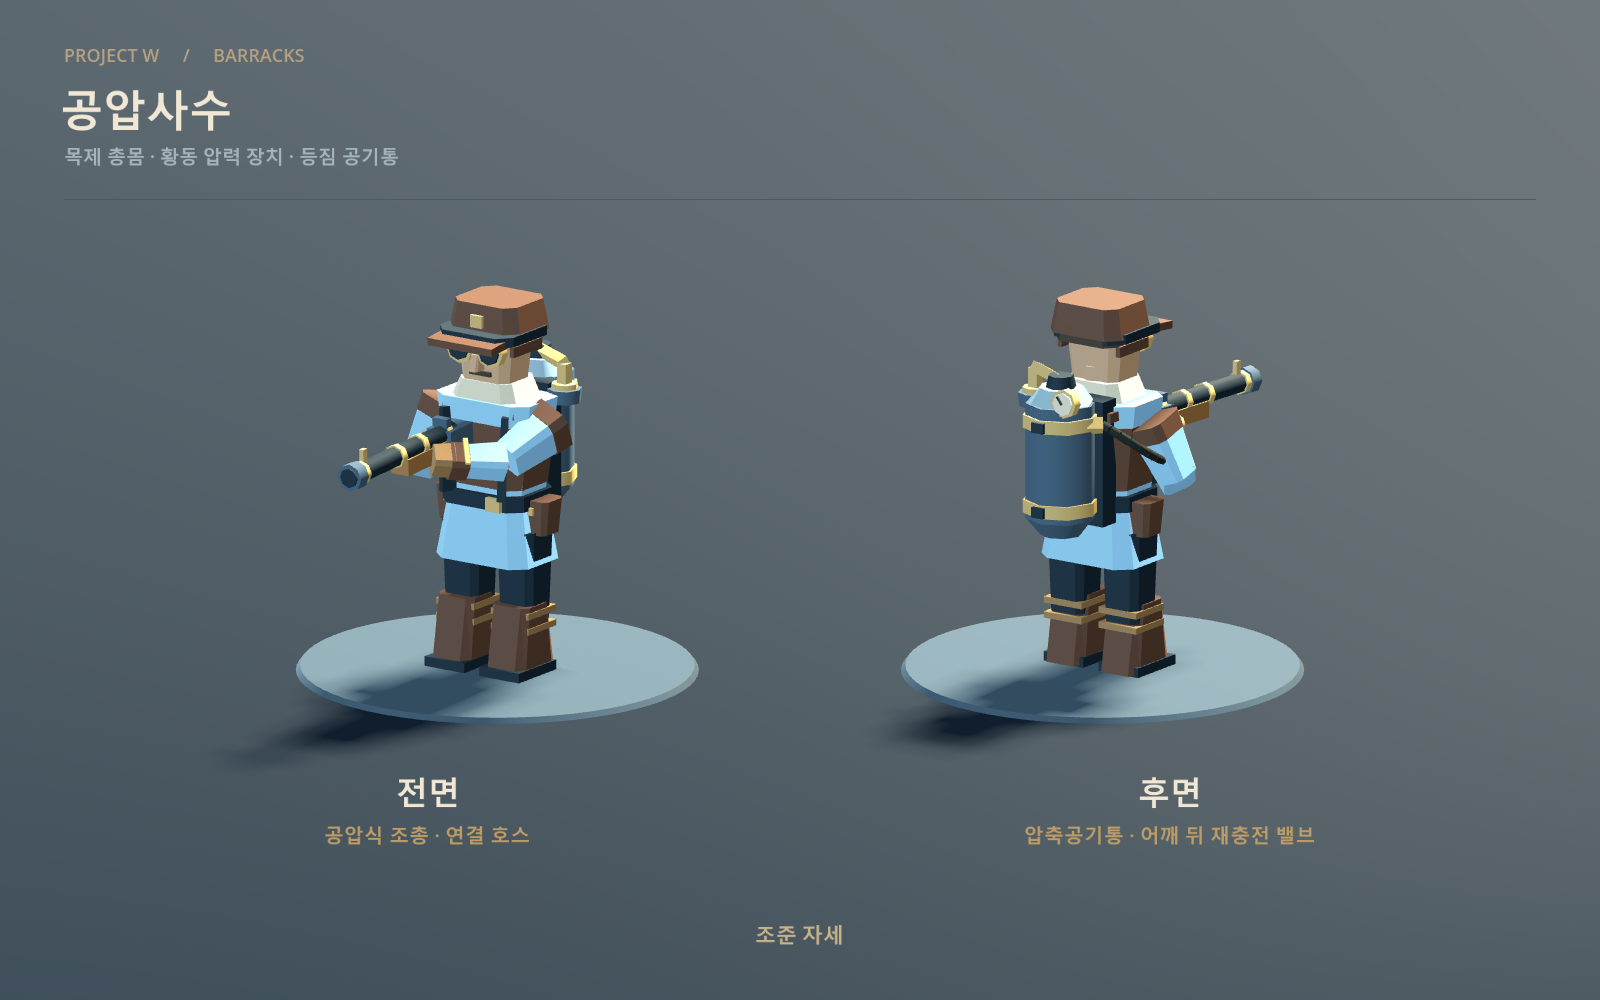
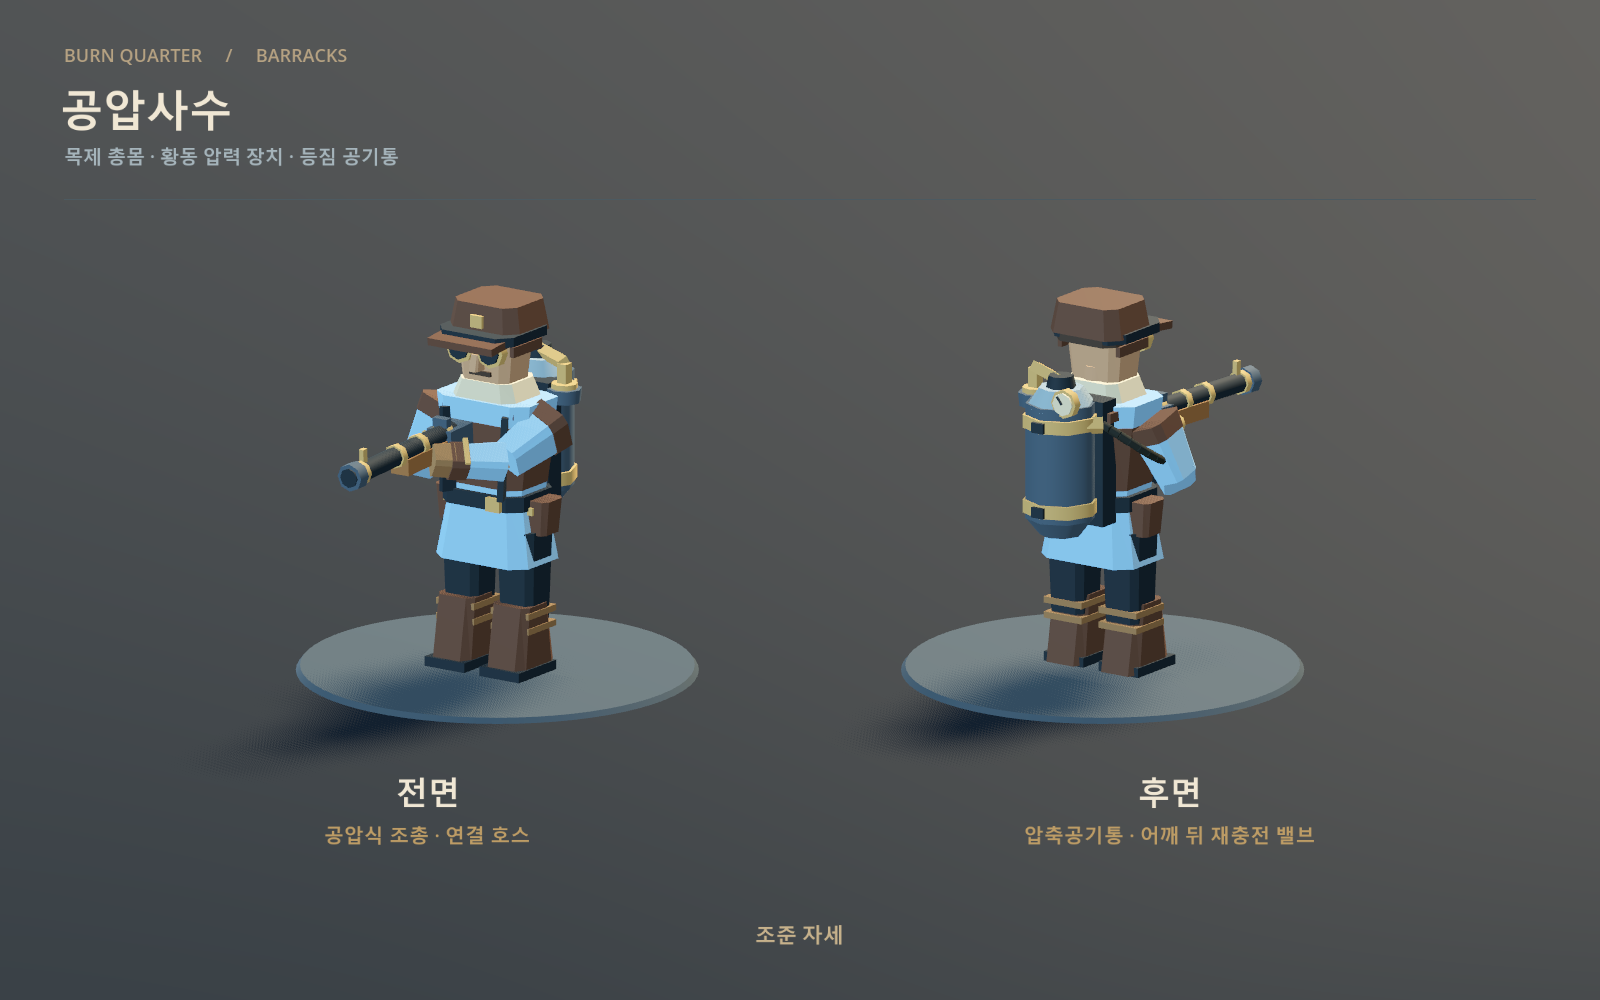
게임 이름을 Burn Quarter로 바꾸기
창 제목, 매칭 화면 로고, 미리보기 시트 제목을 바꾸고 해당 이미지를 다시 찍었다.
실행 파일·어셈블리·저장소 이름은 배포 스크립트 호환을 위해 그대로 둔다.

diff --git a/previews/WorkshopUnitsPreview.cs b/previews/WorkshopUnitsPreview.cs
@@ -97,7 +97,7 @@ public partial class WorkshopUnitsPreview : Node3D
     private void CreateLayout()
     {
         var canvas = new CanvasLayer(); AddChild(canvas); _layout = new Control { MouseFilter = Control.MouseFilterEnum.Ignore }; canvas.AddChild(_layout);
-        Text("PROJECT W     /     WORKSHOP", 64, 42, 1100, 18, "b6a282");
+        Text("BURN QUARTER     /     WORKSHOP", 64, 42, 1100, 18, "b6a282");
         Text(_flameOnly ? "화염기계" : _artilleryOnly ? "증기포격차" : "공장 기계 병력", 60, 80, 1100, 43, "f0e7d4");
         Text(_flameOnly ? "그을린 철판 · 리벳 장갑 · 삼각형 무한궤도" : _venting ? "하부 배출구 · 전환 압력 증기 · 지면 여유" : _traverse ? "수평 회전 톱니 · 독립 포가 · 표적 추적" : _artilleryOnly ? "연결 다리 보행 · 접이식 차체 · 톱니 구동 거포" : "황동 압력계 · 철제 장갑 · 증기 구동", 64, 143, 1200, 19, "a5b4bb");
         _layout.AddChild(new ColorRect { Position = new Vector2(64, 199), Size = new Vector2(1472, 1), Color = new Color("4c5a61") });

diff --git a/previews/SteamKnightPreview.cs b/previews/SteamKnightPreview.cs
@@ -134,7 +134,7 @@ public partial class SteamKnightPreview : Node3D
     {
         var canvas = new CanvasLayer(); AddChild(canvas);
         _layout = new Control { MouseFilter = Control.MouseFilterEnum.Ignore }; canvas.AddChild(_layout);
-        Text("PROJECT W     /     BARRACKS", 64, 42, 1100, 18, "b6a282");
+        Text("BURN QUARTER     /     BARRACKS", 64, 42, 1100, 18, "b6a282");
         Text("스팀돌격병", 60, 80, 1100, 43, "f0e7d4");
         Text(_battle ? "와이어 사출 · 증기 분사 · 고속 돌진" : "검과 방패 · 황동 압력통 · 양옆 톱니 윈치", 64, 143, 1200, 19, "a5b4bb");
         _layout.AddChild(new ColorRect { Position = new Vector2(64, 199), Size = new Vector2(1472, 1), Color = new Color("4c5a61") });

diff --git a/previews/MutantWolfPreview.cs b/previews/MutantWolfPreview.cs
@@ -19,7 +19,7 @@ public partial class MutantWolfPreview : Control
         background.SetAnchorsAndOffsetsPreset(LayoutPreset.FullRect);
         _layout = new Control { MouseFilter = MouseFilterEnum.Ignore };
         AddChild(_layout);
-        Text("PROJECT W   /   HERO 01", new Vector2(26, 18), 650, 17, "92a8b2");
+        Text("BURN QUARTER   /   HERO 01", new Vector2(26, 18), 650, 17, "92a8b2");
         Text("돌연변이 늑대", new Vector2(24, 48), 950, 40, "e9e3d1");
         Text("네 개의 다리 · 작은 팔 하나", new Vector2(1000, 61), 576, 20, "b9a184", HorizontalAlignment.Right);
         AddView(new Rect2(24, 125, 1050, 735), new Vector3(5.8f, 3.5f, -6.2f), 3.9f);

diff --git a/previews/PneumaticRiflePreview.cs b/previews/PneumaticRiflePreview.cs
@@ -81,7 +81,7 @@ public partial class PneumaticRiflePreview : Node3D
     {
         var canvas = new CanvasLayer(); AddChild(canvas);
         _layout = new Control { MouseFilter = Control.MouseFilterEnum.Ignore }; canvas.AddChild(_layout);
-        Text("PROJECT W     /     BARRACKS", 64, 42, 1100, 18, "b6a282");
+        Text("BURN QUARTER     /     BARRACKS", 64, 42, 1100, 18, "b6a282");
         Text("공압사수", 60, 80, 1100, 43, "f0e7d4");
         Text("목제 총몸 · 황동 압력 장치 · 등짐 공기통", 64, 143, 1200, 19, "a5b4bb");
         _layout.AddChild(new ColorRect { Position = new Vector2(64, 199), Size = new Vector2(1472, 1), Color = new Color("4c5a61") });

diff --git a/previews/HeroVisualsPreview.cs b/previews/HeroVisualsPreview.cs
@@ -16,7 +16,7 @@ public partial class HeroVisualsPreview : Control
         AddChild(new ColorRect { Color = new Color("101b28"), Size = new Vector2(1440, 900), MouseFilter = MouseFilterEnum.Ignore });
         _layout = new Control();
         AddChild(_layout);
-        Label("PROJECT W / HERO PRESENTATION", new Vector2(28, 22), 26);
+        Label("BURN QUARTER / HERO PRESENTATION", new Vector2(28, 22), 26);
         Label("Space walk   A attack   Q/W/E/R skills   T team colors", new Vector2(28, 840), 21);
         // The ranger is left out until this preview supports its rig (the LeftArm/Bow lookup fails here).
         string[] scenes = { "HeroTest", "HeroGolem", "HeroMarshal" };

diff --git a/previews/RuneGolemPreview.cs b/previews/RuneGolemPreview.cs
@@ -19,7 +19,7 @@ public partial class RuneGolemPreview : Control
         background.SetAnchorsAndOffsetsPreset(LayoutPreset.FullRect);
         _layout = new Control { MouseFilter = MouseFilterEnum.Ignore };
         AddChild(_layout);
-        Text("PROJECT W   /   HERO 02", new Vector2(26, 18), 650, 17, "92a8b2");
+        Text("BURN QUARTER   /   HERO 02", new Vector2(26, 18), 650, 17, "92a8b2");
         Text("룬 골렘", new Vector2(24, 48), 950, 40, "e9e3d1");
         Text("돌가죽 · 룬 심장 · 거대한 돌주먹", new Vector2(1000, 61), 576, 20, "b9a184", HorizontalAlignment.Right);
         AddView(new Rect2(24, 125, 1050, 735), new Vector3(5.8f, 3.5f, -6.2f), 3.9f);

diff --git a/previews/TierOneUnitsPreview.cs b/previews/TierOneUnitsPreview.cs
@@ -81,7 +81,7 @@ public partial class TierOneUnitsPreview : Node3D
         AddChild(canvas);
         _layout = new Control { MouseFilter = Control.MouseFilterEnum.Ignore };
         canvas.AddChild(_layout);
-        Text("PROJECT W     /     BARRACKS", 64, 42, 650, 19, "9faeaf");
+        Text("BURN QUARTER     /     BARRACKS", 64, 42, 650, 19, "9faeaf");
         Text("1티어 정규군", 60, 76, 1000, 48, "f0e8d5");
         Text("스팀돌격병과 공압사수  ·  실제 게임 모델 / 동일한 카메라 배율", 64, 143, 1200, 20, "abb9bd");
         Line(64, 202, 1472, "4c5e65");

diff --git a/CHANGELOG.md b/CHANGELOG.md
@@ -5,6 +5,7 @@
 
 ## 2026-10-16
 
+- 게임 이름을 **Burn Quarter(번 쿼터)** 로 정했습니다. 창 제목(`project.godot`), 매칭 화면 로고, 미리보기 시트 제목을 바꾸고 해당 미리보기 이미지를 다시 찍었습니다. 실행 파일(`Project W.exe`)·어셈블리·저장소 이름은 배포 스크립트 호환을 위해 그대로입니다.
 - 영웅 미리보기(`previews/HeroVisuals.tscn`)가 레인저 추가 뒤 캡처 전에 멈추던 문제를 고쳤습니다. 레인저 패널은 미리보기가 레인저 모델을 지원할 때까지 빼고 늑대·골렘·사령관만 보여 줍니다.
 - 조병창 연구 툴팁이 라인 미니언의 단계당 고정 상승값(근접·원거리·치유)과 용병의 비율을 따로 보여 줍니다. 미니언 값은 서버가 최초 접속 때 보내는 `MINION_UPGRADE_STEP`에서 읽습니다. 서버의 기본 미니언 편성이 근접 3·생명의 미니언 1·원거리 3으로 바뀌어 미니언 UI의 기본 칸도 7칸이 됩니다(서버와 같은 날 병합).
 - 지면과 외벽을 바꿨습니다. 도로 포석의 전체 톤을 낮춰 유닛과 건물이 더 잘 보이게 했고, 빛바랜 어두운 옛 포석이 군데군데 무리 지어 섞입니다(`Ground.gdshader`). 외벽 둘레의 약 30% 구간은 총안이 떨어져 나가고 철띠·철판으로 보강한 어둡고 빛바랜 옛 성벽입니다(`TerrainBuilder.build_walls`, `Wall.gdshader`의 `streak_strength`·`colour_fade`). 지도 데이터·충돌·시야·맵 해시는 그대로이며 편집용 지형 캐시만 다시 만들었습니다.
